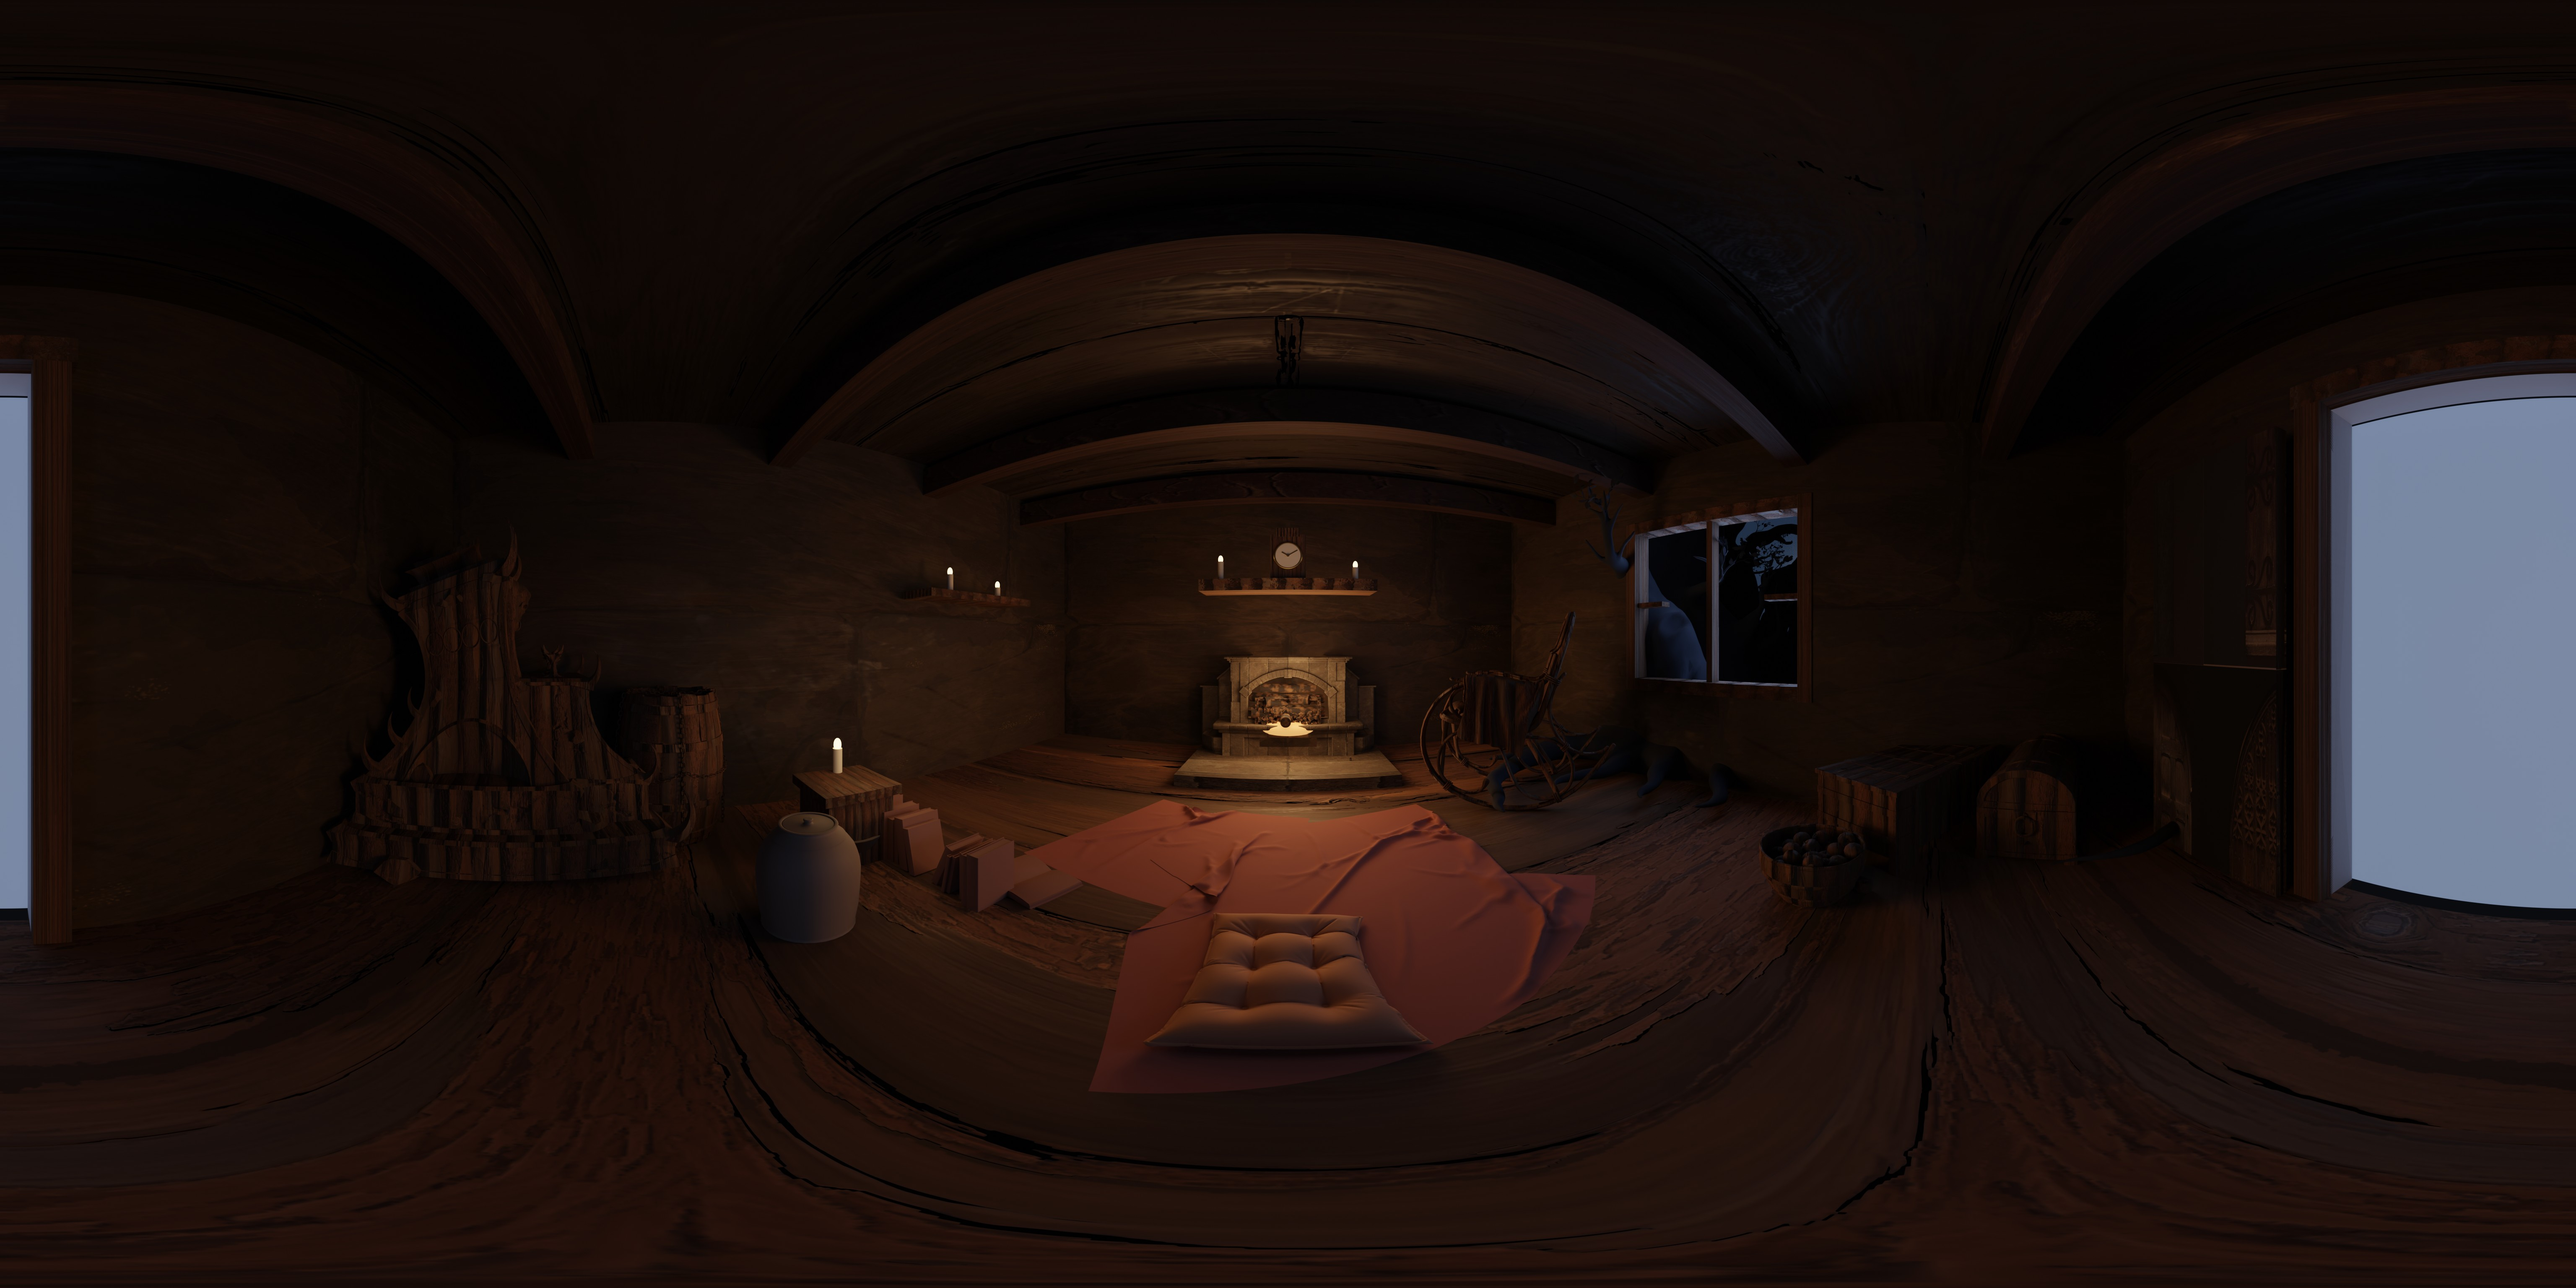
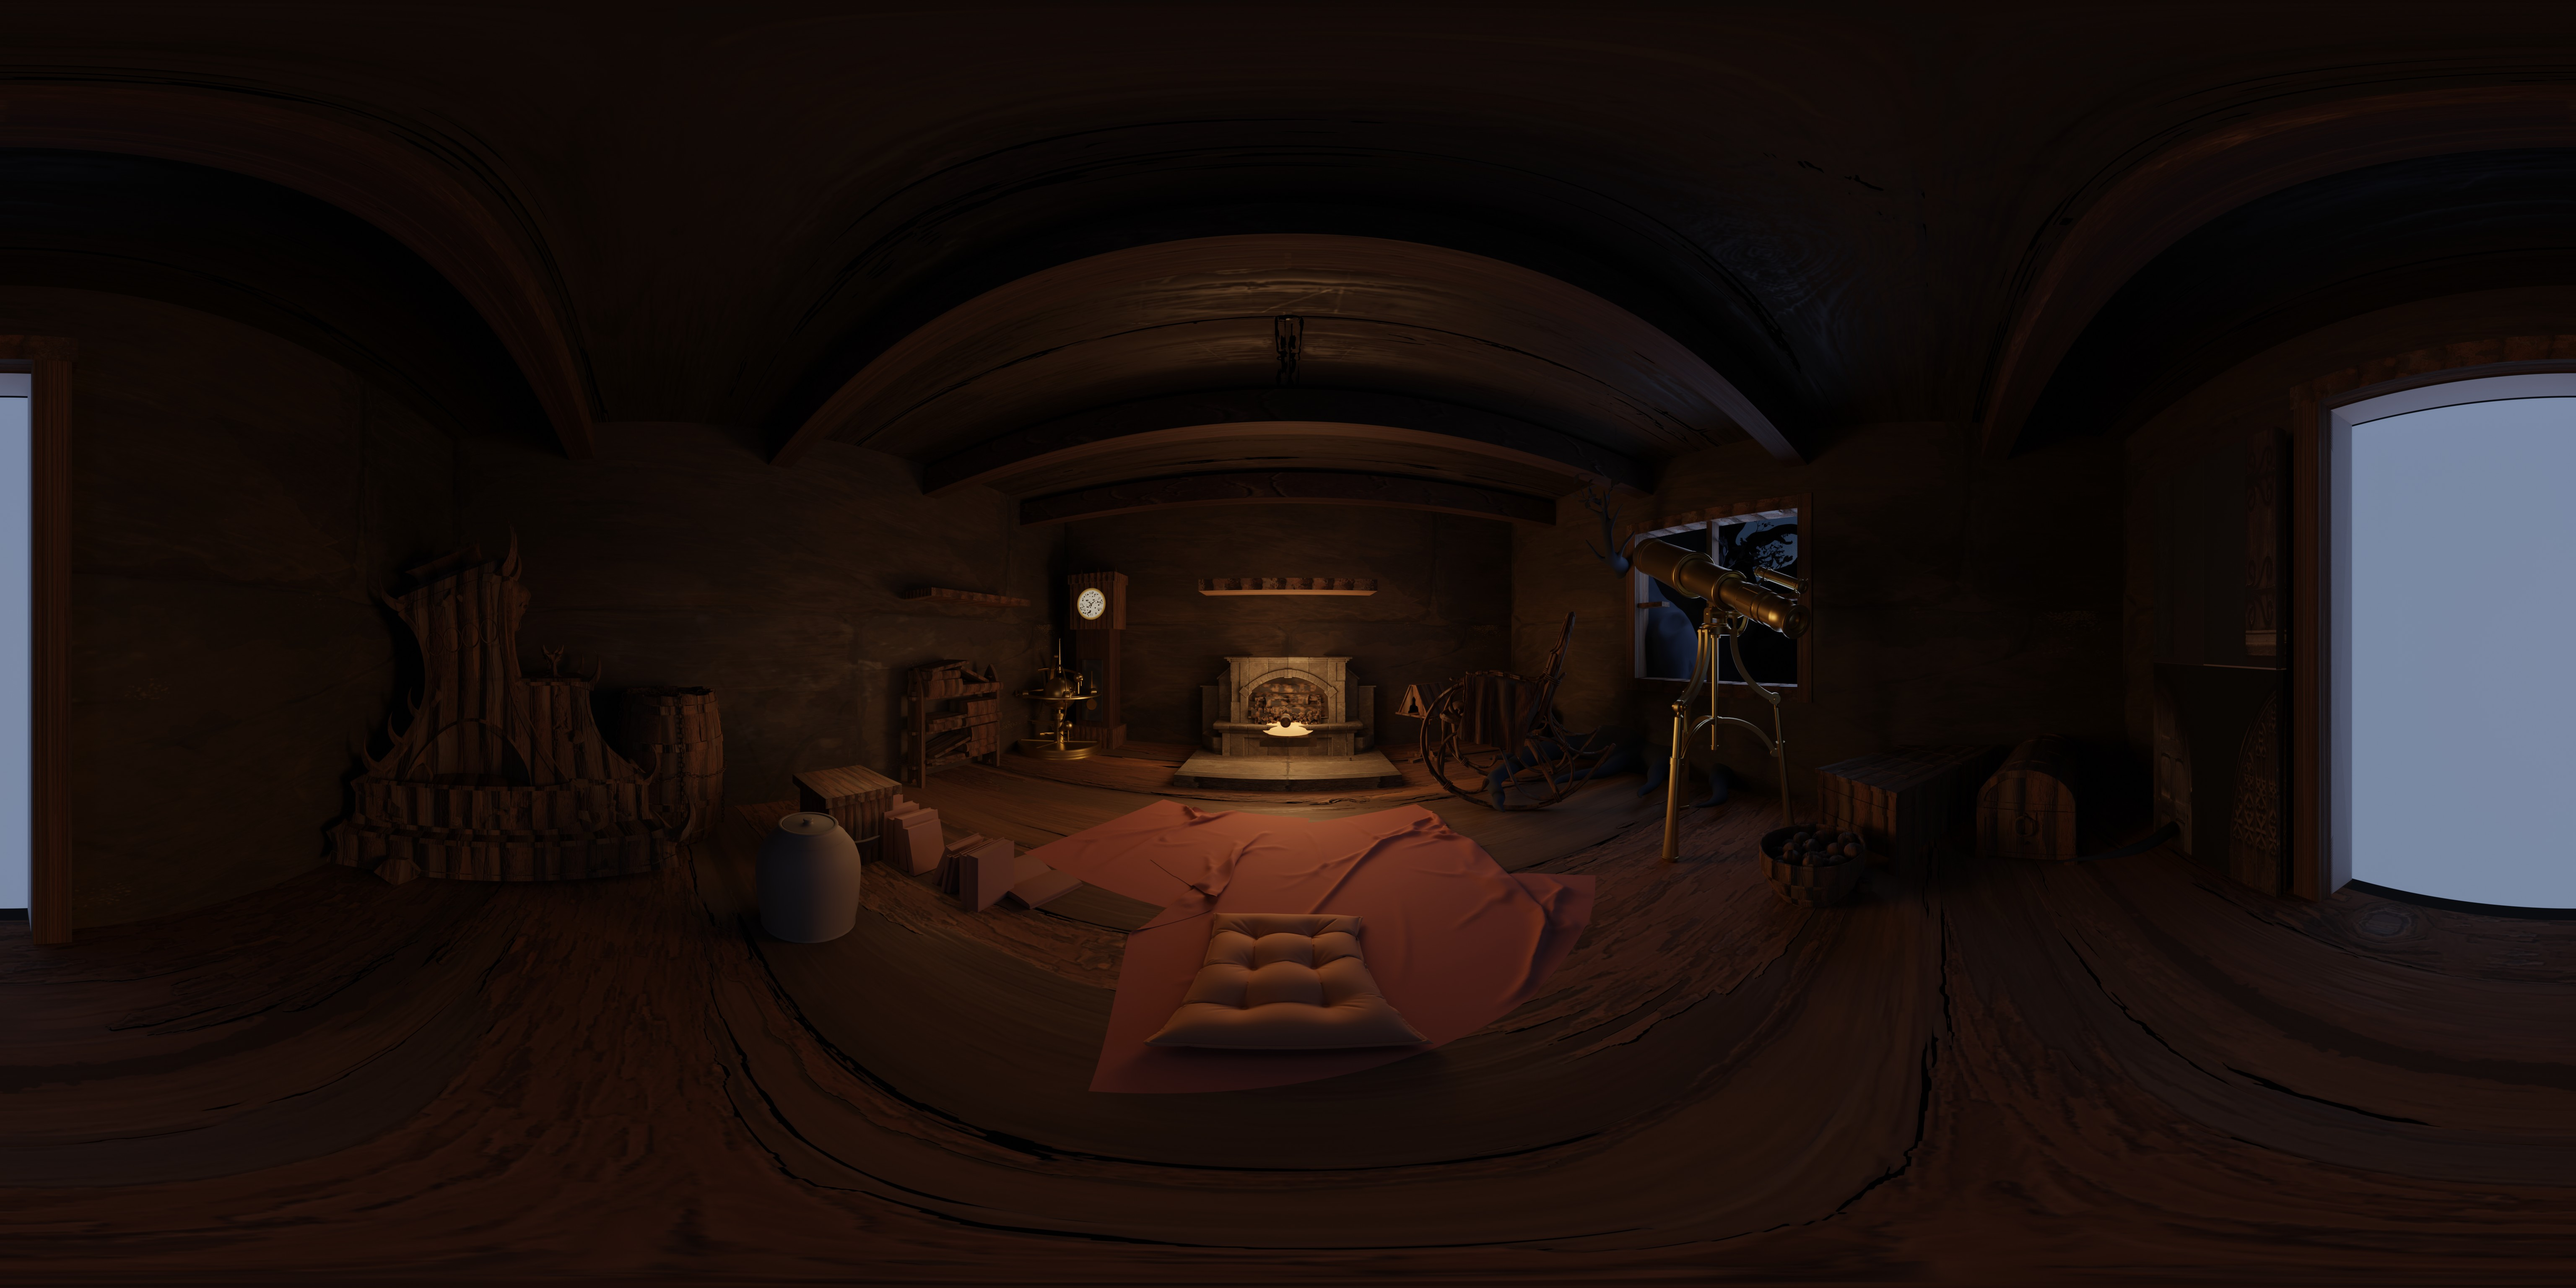
feat(cabin): 屋内アンティークを刷新 — 自立式時計＋望遠鏡/地球儀/本棚等、蝋燭は撤去
- 全キット(DKF/Enchanted/Valhalla/VillageHouse/ECI/TreasureIsland)を捜索→小型時計は無し
  (唯一は巨大な時計塔ビル)。ECIキットがアンティークの宝庫と判明し厳選採用
- 時計を自立式グランドファーザー時計に作り直し(描いたローマ数字文字盤 assets/clockface.png＋
  振り子＋装飾ケース) 暖炉左に設置
- 望遠鏡(窓辺)/渾天儀グローブ/本棚/装飾チェスト/書見台を追加。中央(暖炉+瞑想クッション)は確保
- ろうそくを全撤去
- cabin360 / cabin-still を再レンダ

diff --git a/_blender/eci_meditation_360.py b/_blender/eci_meditation_360.py
@@ -170,6 +170,12 @@ KIT = {
     'KB3D_ECI_PropJug_A_Main':          ('ceramic', -1.30, -0.95, 0,   0.85),  # clay jug in the left-front contemplative nook
     'KB3D_ECI_PropOpenBook_A_Main':     ('book',    -1.02, -0.12, -14, 0.95),  # open book beside the writings pile
     'KB3D_ECI_PropAppleBasket_A_Main':  ('wood',     1.55, -1.05, 15,  0.6),   # small woven basket, right-front
+    # ── antique pieces (curated from the Enchanted Interiors kit), to enrich the room ──
+    'KB3D_ECI_PropTelescope_A_Main':    ('brass',    2.05, -0.20, 150, 1.0),   # brass telescope by the window — stargazing
+    'KB3D_ECI_PropBookShelf_A_Main':    ('wood',    -2.46,  0.85, 90,  0.95),  # tall bookshelf against the left wall
+    'KB3D_ECI_PropEarthGlobe_A_Main':   ('brass',   -2.25,  1.95, 25,  0.42),  # small armillary globe, tucked into the left-back corner
+    'KB3D_ECI_PropArmorChest_A_Main':   ('wood',     2.40,  2.05, -120,0.9),   # ornate antique chest, right-back corner
+    'KB3D_ECI_PropBookStand_A_Main':    ('wood',     1.30,  2.20, -150,0.9),   # reading lectern near the hearth
 }
 # the wizard-office tree, kept only to instance a forest beyond the window
 KEEP_EXTRA = {'KB3D_ECI_IntWizardOffice_A_Tree'}
@@ -285,39 +291,46 @@ def spawn_candle(x, y, z, h, r=0.025):
     c = bpy.context.active_object; c.name = 'Candle'; set_mat(c, MAT['wax'])
     bpy.ops.mesh.primitive_uv_sphere_add(radius=0.02, location=(x, y, z+h+0.02))
     f = bpy.context.active_object; f.name = 'CandleFlame'; f.scale = (1, 1, 1.8); set_mat(f, MAT['flame'])
-CANDLES = [
-    (-0.58, 2.00, 1.67, 0.17), (0.58, 2.00, 1.67, 0.12),   # either side of the mantel clock
-    (-2.40, 0.72, 1.53, 0.15), (-2.40, 1.30, 1.53, 0.10),  # on the wall shelf
-    (-1.92, -0.52, 0.42, 0.14),                            # on the side stool
-]
-for cx, cy, cz, ch in CANDLES:
-    spawn_candle(cx, cy, cz, ch)
+# (no candles — removed at the user's request)
 
-# ── antique mantel clock (hand-built — the Enchanted Interiors kit has no clock) ──
-def build_clock(cx, cy, cz):
-    cw, cdp, chh = 0.30, 0.14, 0.40
-    add_box('ClockBase',  cw*1.16, cdp*1.12, 0.05, (cx, cy, cz+0.025), MAT['wood'])
-    add_box('ClockCase',  cw, cdp, chh, (cx, cy, cz+chh/2+0.04), MAT['wood'])
-    add_box('ClockCrown', cw*0.66, cdp*1.04, 0.08, (cx, cy, cz+chh+0.06), MAT['wood'])
-    add_box('ClockFinial', 0.04, 0.04, 0.07, (cx, cy, cz+chh+0.13), MAT['brass'])
-    fy = cy - cdp/2 - 0.004; zc = cz + chh*0.62
-    bpy.ops.mesh.primitive_cylinder_add(radius=0.108, depth=0.02, location=(cx, fy, zc))
-    fc = bpy.context.active_object; fc.name = 'ClockFace'; fc.rotation_euler = (math.radians(90), 0, 0); set_mat(fc, MAT['ivory'])
-    bpy.ops.mesh.primitive_torus_add(major_radius=0.112, minor_radius=0.012, location=(cx, fy, zc))
-    rm = bpy.context.active_object; rm.name = 'ClockRim'; rm.rotation_euler = (math.radians(90), 0, 0); set_mat(rm, MAT['brass'])
-    for k in range(12):
-        a = k/12*math.tau
-        bpy.ops.mesh.primitive_cube_add(size=1, location=(cx+math.sin(a)*0.092, fy-0.004, zc+math.cos(a)*0.092))
-        tk = bpy.context.active_object; tk.scale = (0.006, 0.004, 0.015 if k%3==0 else 0.009); tk.rotation_euler = (0, a, 0); set_mat(tk, MAT['brass'])
-    def hand(length, w, ang):
-        a = math.radians(ang)
-        bpy.ops.mesh.primitive_cube_add(size=1, location=(cx+math.sin(a)*length/2, fy-0.012, zc+math.cos(a)*length/2))
-        h = bpy.context.active_object; h.scale = (w, 0.005, length); h.rotation_euler = (0, a, 0); set_mat(h, MAT['brass'])
-    hand(0.060, 0.010, -60)   # hour hand -> ~10
-    hand(0.092, 0.008,  60)   # minute hand -> ~2
-    bpy.ops.mesh.primitive_cylinder_add(radius=0.012, depth=0.02, location=(cx, fy-0.013, zc))
-    cap = bpy.context.active_object; cap.rotation_euler = (math.radians(90), 0, 0); set_mat(cap, MAT['brass'])
-build_clock(0.0, 2.04, 1.63)
+# ── antique longcase (grandfather) clock, standing in a corner, facing the room (-Y) ──
+# the Enchanted Interiors kit has no clock, so it's hand-built; the dial is a painted
+# Roman-numeral face texture (assets/clockface.png) for a convincing antique look.
+def clock_face_mat():
+    m = bpy.data.materials.new('clock_face'); m.use_nodes = True
+    try: m.blend_method = 'CLIP'
+    except Exception: pass
+    nt = m.node_tree; nodes, links = nt.nodes, nt.links; bsdf = nodes.get('Principled BSDF')
+    try:
+        img = bpy.data.images.load(r'C:\projects\yuichi916.github.io\assets\clockface.png', check_existing=True)
+        tex = nodes.new('ShaderNodeTexImage'); tex.image = img
+        links.new(tex.outputs['Color'], bsdf.inputs['Base Color'])
+        links.new(tex.outputs['Alpha'], bsdf.inputs['Alpha'])
+        links.new(tex.outputs['Color'], bsdf.inputs['Emission']); bsdf.inputs['Emission Strength'].default_value = 0.45
+    except Exception as e:
+        print('[clock] face tex fail', e, flush=True)
+    bsdf.inputs['Roughness'].default_value = 0.5
+    return m
+
+def build_clock(cx, cy):
+    # front faces -Y (toward the seated viewer); stands on the floor against the +Y wall
+    add_box('ClockPlinth', 0.52, 0.36, 0.22, (cx, cy, 0.11), MAT['wood'])
+    add_box('ClockTrunk',  0.40, 0.28, 1.06, (cx, cy, 0.22+0.53), MAT['beam'])
+    # glazed pendulum window + brass pendulum
+    add_box('ClockGlass', 0.24, 0.02, 0.66, (cx, cy-0.145, 0.62), make_solid('clk_glass', (0.03, 0.035, 0.045), rough=0.15))
+    add_box('ClockRod',   0.012, 0.012, 0.34, (cx, cy-0.15, 0.66), MAT['brass'])
+    bpy.ops.mesh.primitive_cylinder_add(radius=0.06, depth=0.02, location=(cx, cy-0.155, 0.47))
+    pb = bpy.context.active_object; pb.name = 'ClockPendulum'; pb.rotation_euler = (math.radians(90), 0, 0); set_mat(pb, MAT['brass'])
+    htop = 0.22 + 1.06
+    add_box('ClockHood',  0.52, 0.34, 0.50, (cx, cy, htop+0.25), MAT['wood'])
+    # painted dial on a plane on the hood front
+    bpy.ops.mesh.primitive_plane_add(size=0.36, location=(cx, cy-0.171, htop+0.27))
+    fc = bpy.context.active_object; fc.name = 'ClockDial'; fc.rotation_euler = (math.radians(90), 0, 0); set_mat(fc, clock_face_mat())
+    add_box('ClockCrown', 0.56, 0.37, 0.10, (cx, cy, htop+0.55), MAT['wood'])
+    for fx in (-0.21, 0.0, 0.21):
+        bpy.ops.mesh.primitive_cone_add(radius1=0.03, radius2=0.0, depth=0.10, location=(cx+fx, cy, htop+0.65))
+        fn = bpy.context.active_object; set_mat(fn, MAT['brass'])
+build_clock(-2.02, 2.55)
 
 # ============================================================ deep night forest beyond the +X window
 import random as _rnd; _rnd.seed(7)
